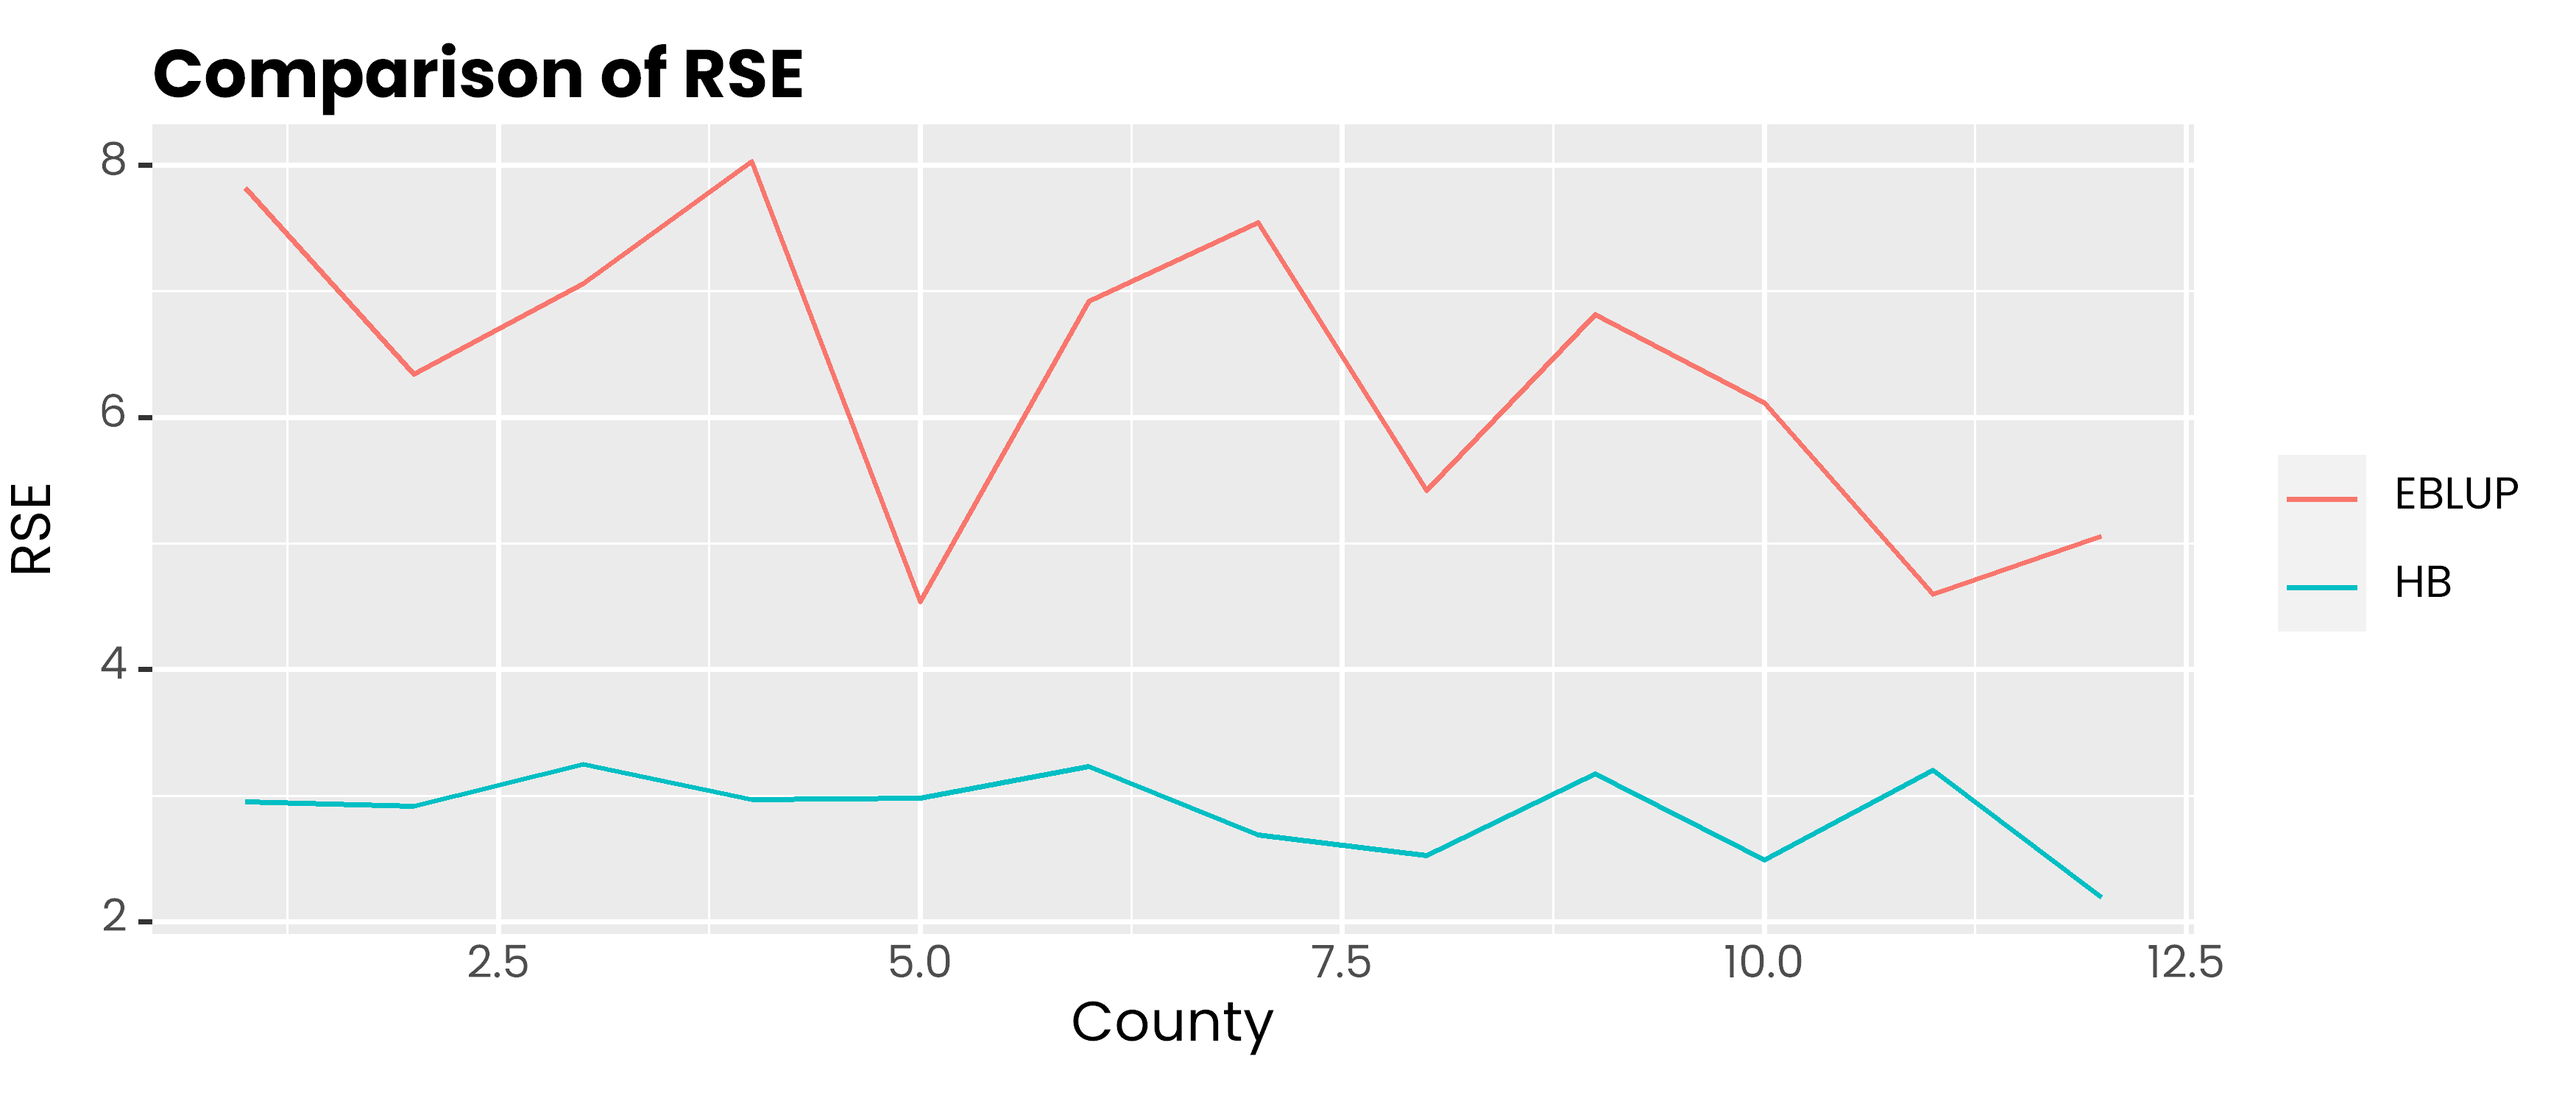
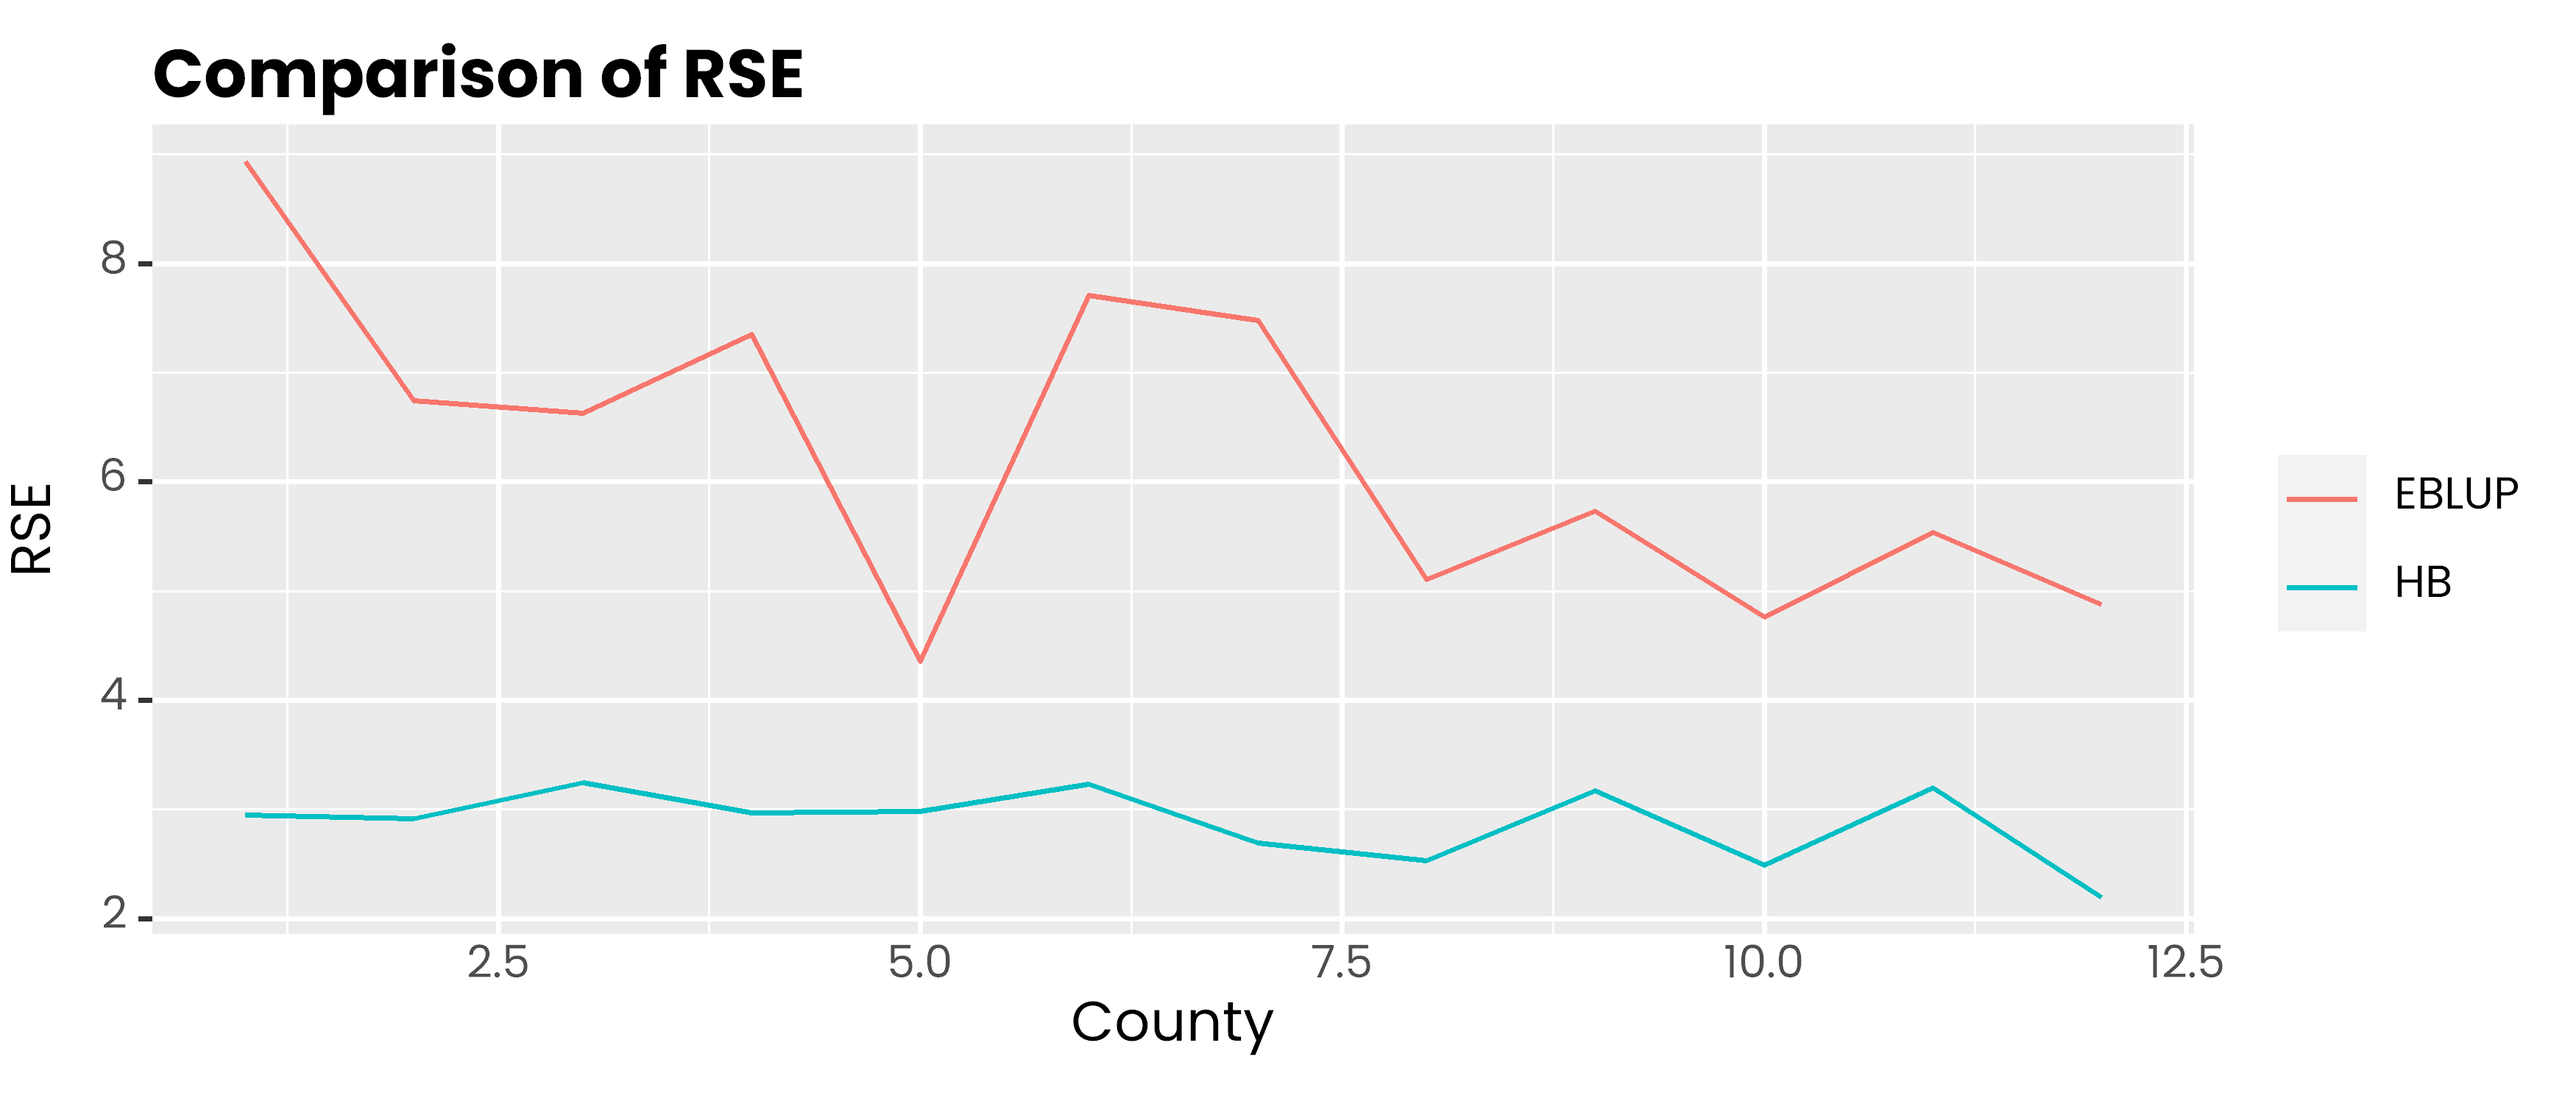
update progress

diff --git a/README.md b/README.md
@@ -3,9 +3,9 @@
 
 <!-- badges: start -->
 
+[![check-standard](https://github.com/Alfrzlp/saeHB.unit/actions/workflows/check-standard.yaml/badge.svg)](https://github.com/Alfrzlp/saeHB.unit/actions/workflows/check-standard.yaml)
 [![CRAN
 status](https://www.r-pkg.org/badges/version-last-release/saeHB.unit)](https://CRAN.R-project.org/package=saeHB.unit)
-[![check-standard](https://github.com/Alfrzlp/saeHB.unit/actions/workflows/check-standard.yaml/badge.svg)](https://github.com/Alfrzlp/saeHB.unit/actions/workflows/check-standard.yaml)
 ![downloads](https://cranlogs.r-pkg.org/badges/grand-total/saeHB.unit)
 
 <!-- badges: end -->
@@ -113,7 +113,8 @@ corn_eblup <- pbmseBHF(
 #> Bootstrap procedure with B = 50 iterations starts.
 #> b = 1 
 #> b = 2 
-#> b = 3 
+#> b = 3
+#> boundary (singular) fit: see help('isSingular')
 #> b = 4 
 #> b = 5 
 #> b = 6 
@@ -123,54 +124,46 @@ corn_eblup <- pbmseBHF(
 #> b = 10 
 #> b = 11
 #> boundary (singular) fit: see help('isSingular')
-#> b = 12
-#> boundary (singular) fit: see help('isSingular')
+#> b = 12 
 #> b = 13 
 #> b = 14 
 #> b = 15 
 #> b = 16 
-#> b = 17
-#> boundary (singular) fit: see help('isSingular')
+#> b = 17 
 #> b = 18 
 #> b = 19 
 #> b = 20
 #> boundary (singular) fit: see help('isSingular')
 #> b = 21 
-#> b = 22
-#> boundary (singular) fit: see help('isSingular')
+#> b = 22 
 #> b = 23 
 #> b = 24
 #> boundary (singular) fit: see help('isSingular')
 #> b = 25 
-#> b = 26
-#> boundary (singular) fit: see help('isSingular')
+#> b = 26 
 #> b = 27 
 #> b = 28 
 #> b = 29 
-#> b = 30
+#> b = 30 
+#> b = 31
 #> boundary (singular) fit: see help('isSingular')
-#> b = 31 
 #> b = 32 
 #> b = 33 
 #> b = 34 
 #> b = 35 
 #> b = 36 
-#> b = 37
-#> boundary (singular) fit: see help('isSingular')
+#> b = 37 
 #> b = 38 
 #> b = 39 
 #> b = 40 
-#> b = 41 
-#> b = 42
+#> b = 41
 #> boundary (singular) fit: see help('isSingular')
+#> b = 42 
 #> b = 43 
 #> b = 44 
-#> b = 45
-#> boundary (singular) fit: see help('isSingular')
-#> b = 46
-#> boundary (singular) fit: see help('isSingular')
-#> b = 47
-#> boundary (singular) fit: see help('isSingular')
+#> b = 45 
+#> b = 46 
+#> b = 47 
 #> b = 48 
 #> b = 49 
 #> b = 50
@@ -286,12 +279,12 @@ hb_model <- hb_unit(
   iter.update = 30,
   plot = FALSE
 )
-#> Update 2/30 | ■■■                                7% | ETA:  1m Update 3/30 | ■■■■                              10% | ETA:  1m Update 4/30 | ■■■■■                             13% | ETA:  1m Update 5/30 | ■■■■■■                            17% | ETA:  1m Update 6/30 | ■■■■■■■                           20% | ETA:  1m Update 7/30 | ■■■■■■■■                          23% | ETA:  1m Update 8/30 | ■■■■■■■■■                         27% | ETA:  1m Update 9/30 | ■■■■■■■■■■                        30% | ETA:  1m Update 10/30 | ■■■■■■■■■■■                       33% | ETA:  1m Update 11/30 | ■■■■■■■■■■■■                      37% | ETA:  1m Update 12/30 | ■■■■■■■■■■■■■                     40% | ETA:  1m Update 13/30 | ■■■■■■■■■■■■■■                    43% | ETA:  1m Update 14/30 | ■■■■■■■■■■■■■■■                   47% | ETA:  1m Update 15/30 | ■■■■■■■■■■■■■■■■                  50% | ETA:  1m Update 16/30 | ■■■■■■■■■■■■■■■■■                 53% | ETA:  1m Update 17/30 | ■■■■■■■■■■■■■■■■■■                57% | ETA:  1m Update 18/30 | ■■■■■■■■■■■■■■■■■■■               60% | ETA: 50s Update 19/30 | ■■■■■■■■■■■■■■■■■■■■              63% | ETA: 46s Update 20/30 | ■■■■■■■■■■■■■■■■■■■■■             67% | ETA: 42s Update 21/30 | ■■■■■■■■■■■■■■■■■■■■■■            70% | ETA: 38s Update 22/30 | ■■■■■■■■■■■■■■■■■■■■■■■           73% | ETA: 33s Update 23/30 | ■■■■■■■■■■■■■■■■■■■■■■■■          77% | ETA: 29s Update 24/30 | ■■■■■■■■■■■■■■■■■■■■■■■■■         80% | ETA: 25s Update 25/30 | ■■■■■■■■■■■■■■■■■■■■■■■■■■        83% | ETA: 21s Update 26/30 | ■■■■■■■■■■■■■■■■■■■■■■■■■■■       87% | ETA: 17s Update 27/30 | ■■■■■■■■■■■■■■■■■■■■■■■■■■■■      90% | ETA: 13s Update 28/30 | ■■■■■■■■■■■■■■■■■■■■■■■■■■■■■     93% | ETA:  8s Update 29/30 | ■■■■■■■■■■■■■■■■■■■■■■■■■■■■■■    97% | ETA:  4s                                                                  
+#> Update 2/30 | ■■■                                7% | ETA:  1m Update 3/30 | ■■■■                              10% | ETA:  1m Update 4/30 | ■■■■■                             13% | ETA:  1m Update 5/30 | ■■■■■■                            17% | ETA:  1m Update 6/30 | ■■■■■■■                           20% | ETA:  1m Update 7/30 | ■■■■■■■■                          23% | ETA:  1m Update 8/30 | ■■■■■■■■■                         27% | ETA:  1m Update 9/30 | ■■■■■■■■■■                        30% | ETA:  1m Update 10/30 | ■■■■■■■■■■■                       33% | ETA:  1m Update 11/30 | ■■■■■■■■■■■■                      37% | ETA:  1m Update 12/30 | ■■■■■■■■■■■■■                     40% | ETA:  1m Update 13/30 | ■■■■■■■■■■■■■■                    43% | ETA:  1m Update 14/30 | ■■■■■■■■■■■■■■■                   47% | ETA:  1m Update 15/30 | ■■■■■■■■■■■■■■■■                  50% | ETA:  1m Update 16/30 | ■■■■■■■■■■■■■■■■■                 53% | ETA:  1m Update 17/30 | ■■■■■■■■■■■■■■■■■■                57% | ETA:  1m Update 18/30 | ■■■■■■■■■■■■■■■■■■■               60% | ETA: 49s Update 19/30 | ■■■■■■■■■■■■■■■■■■■■              63% | ETA: 45s Update 20/30 | ■■■■■■■■■■■■■■■■■■■■■             67% | ETA: 41s Update 21/30 | ■■■■■■■■■■■■■■■■■■■■■■            70% | ETA: 37s Update 22/30 | ■■■■■■■■■■■■■■■■■■■■■■■           73% | ETA: 33s Update 23/30 | ■■■■■■■■■■■■■■■■■■■■■■■■          77% | ETA: 29s Update 24/30 | ■■■■■■■■■■■■■■■■■■■■■■■■■         80% | ETA: 25s Update 25/30 | ■■■■■■■■■■■■■■■■■■■■■■■■■■        83% | ETA: 21s Update 26/30 | ■■■■■■■■■■■■■■■■■■■■■■■■■■■       87% | ETA: 17s Update 27/30 | ■■■■■■■■■■■■■■■■■■■■■■■■■■■■      90% | ETA: 12s Update 28/30 | ■■■■■■■■■■■■■■■■■■■■■■■■■■■■■     93% | ETA:  8s Update 29/30 | ■■■■■■■■■■■■■■■■■■■■■■■■■■■■■■    97% | ETA:  4s                                                                  
 #> ── Coefficient ─────────────────────────────────────────────────────────────────
 #>                Mean        SD      2.5%       25%       50%       75%  97.5%
-#> intercept 0.4114817 0.0638659 0.2818299 0.3680691 0.4121577 0.4554919 0.5362
-#> x1        2.0294881 0.0023865 2.0248639 2.0278430 2.0294901 2.0310455 2.0342
-#> x2        3.0224227 0.0023457 3.0178024 3.0208473 3.0224303 3.0240568 3.0270
+#> intercept 0.3577371 0.0547987 0.2482447 0.3217857 0.3566637 0.3958093 0.4630
+#> x1        2.0311678 0.0023257 2.0267189 2.0296103 2.0312001 2.0326838 2.0357
+#> x2        3.0235434 0.0025226 3.0185623 3.0219163 3.0235017 3.0252455 3.0285
 ```
 
 This dataset contains NA in 5 domains out of 30 domains.
@@ -301,11 +294,11 @@ dummy_unit %>%
   dplyr::filter(is.na(y_di)) %>% 
   sample_n(size = 5)
 #>   domain y_di       x1       x2
-#> 1    d14   NA 13.95985 17.36882
-#> 2    d16   NA 18.33160 11.46246
-#> 3    d27   NA 17.60698 15.91963
-#> 4    d22   NA 19.00794 11.30174
-#> 5    d22   NA 14.79173 13.13999
+#> 1    d14   NA 13.35309 10.24535
+#> 2    d27   NA 16.27012 11.93000
+#> 3    d29   NA 19.11363 15.73160
+#> 4    d14   NA 10.21236 12.23435
+#> 5    d16   NA 15.43839 17.56159
 ```
 
 ``` r
@@ -333,9 +326,9 @@ saeHB.unit::autoplot(hb_model)
 ``` r
 summary(hb_model)
 #>                Mean        SD      2.5%       25%       50%       75%  97.5%
-#> intercept 0.4114817 0.0638659 0.2818299 0.3680691 0.4121577 0.4554919 0.5362
-#> x1        2.0294881 0.0023865 2.0248639 2.0278430 2.0294901 2.0310455 2.0342
-#> x2        3.0224227 0.0023457 3.0178024 3.0208473 3.0224303 3.0240568 3.0270
+#> intercept 0.3577371 0.0547987 0.2482447 0.3217857 0.3566637 0.3958093 0.4630
+#> x1        2.0311678 0.0023257 2.0267189 2.0296103 2.0312001 2.0326838 2.0357
+#> x2        3.0235434 0.0025226 3.0185623 3.0219163 3.0235017 3.0252455 3.0285
 ```
 
 ``` r
